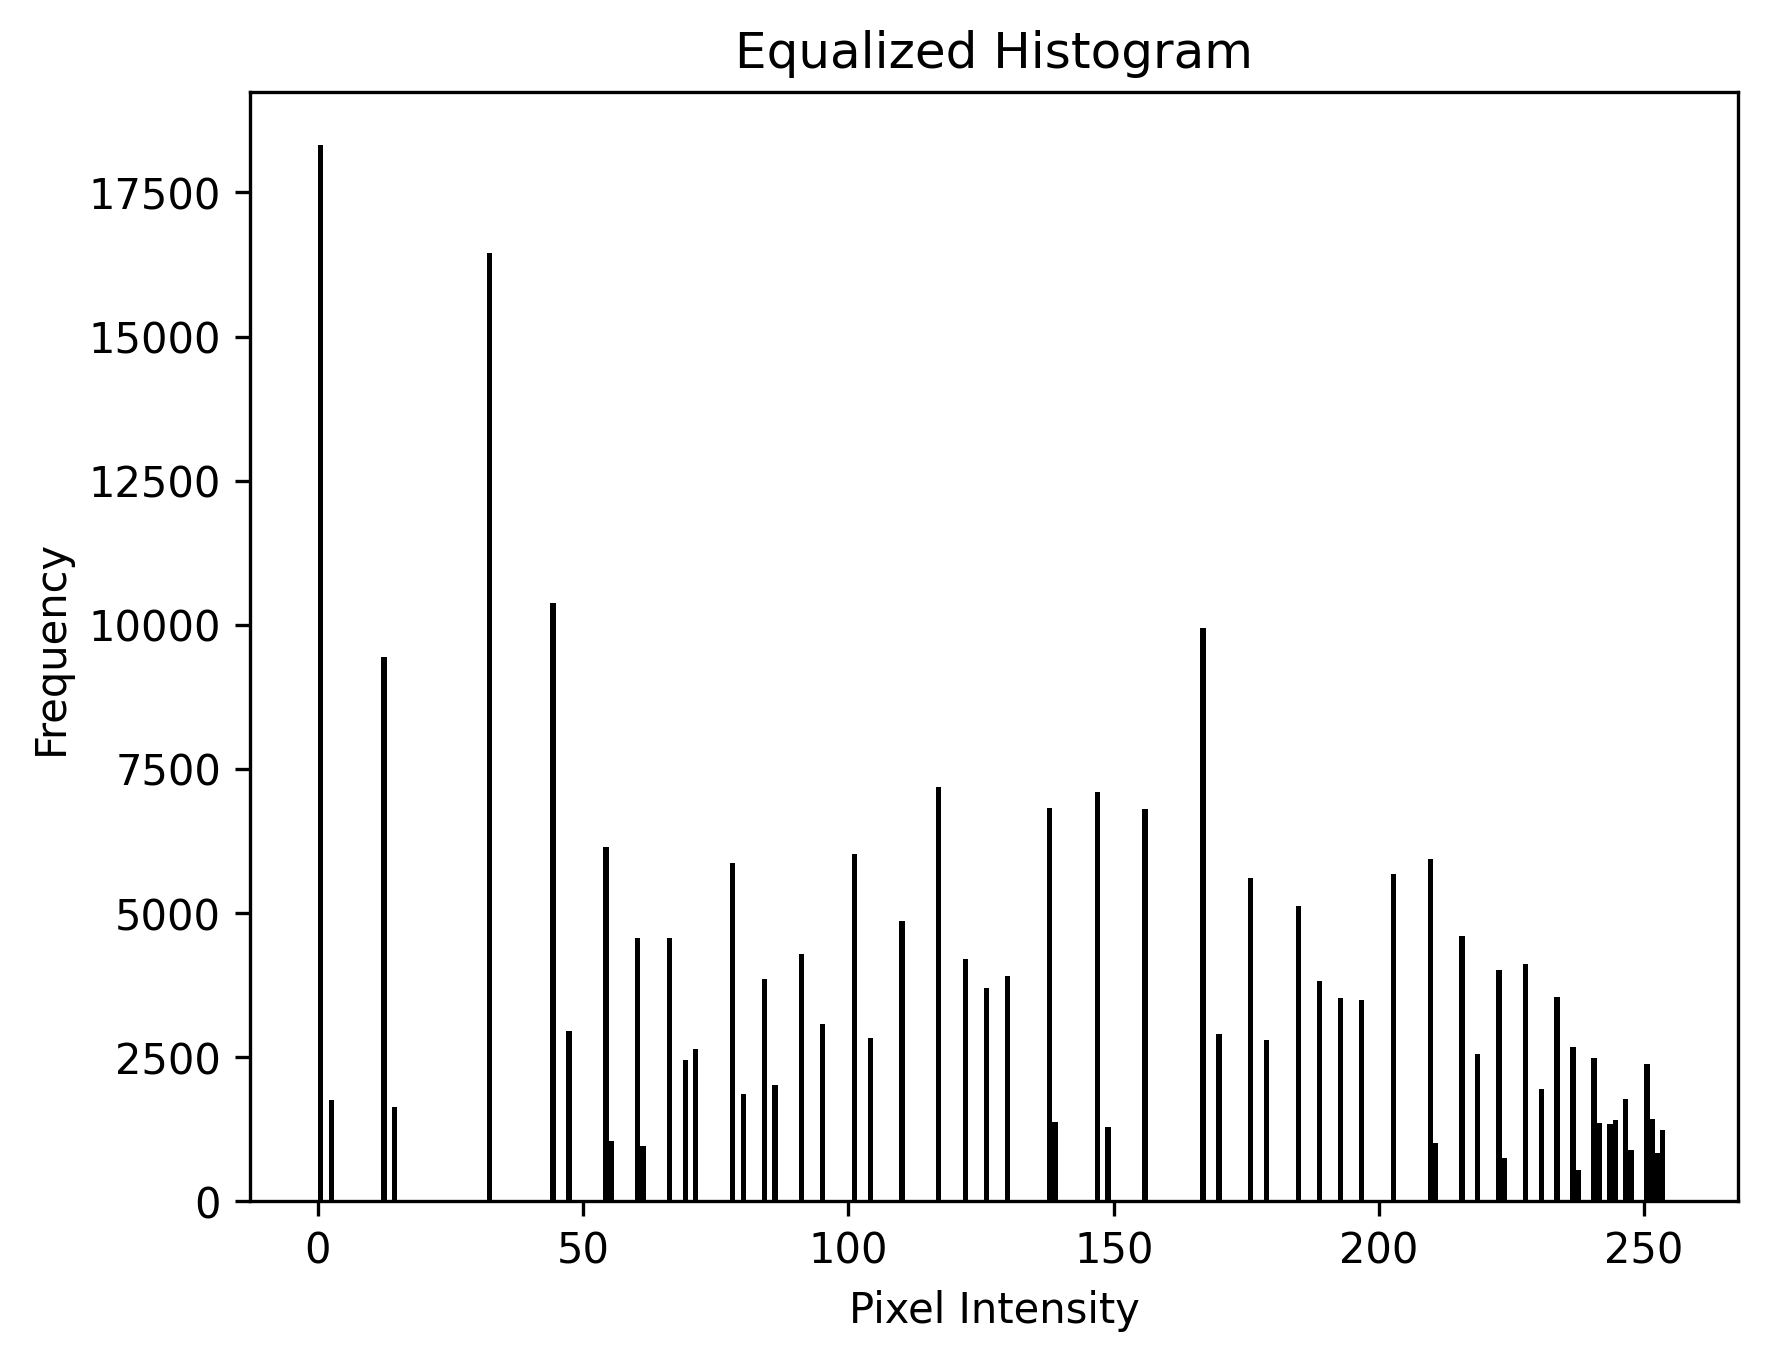
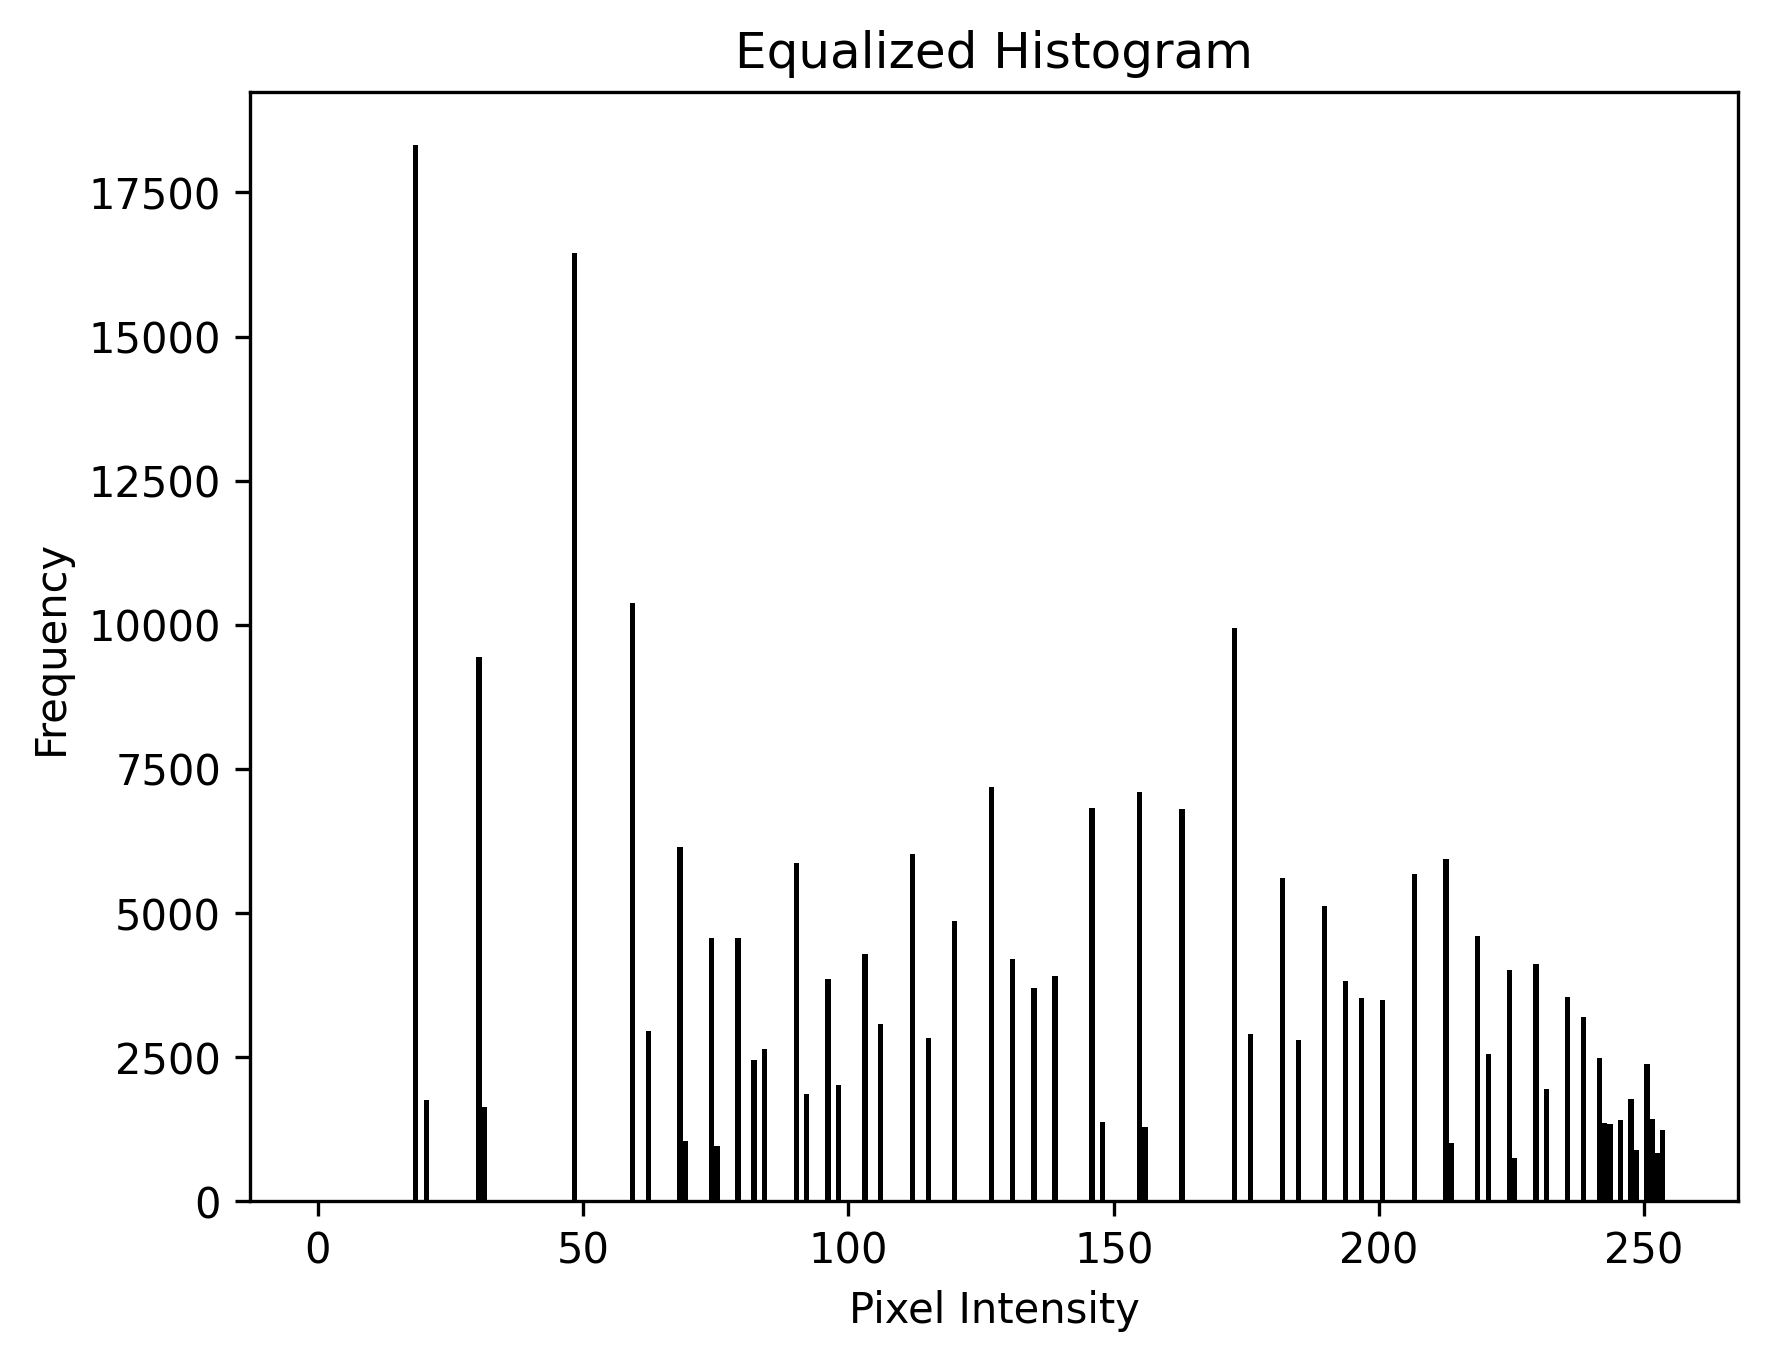
task5_modified

Changed region(s): [[0.3111, 0.432, 0.9333, 0.8949], [0.1555, 0.4629, 0.28, 0.8949]]

diff --git a/task5.py b/task5.py
@@ -5,14 +5,13 @@ import os
 
 
 def my_hist_equalization(img):
-    hist, _ = np.histogram(img.flatten(), bins=256, range=[0, 256])
+    L = 256
+    M, N = img.shape
+    hist = cv.calcHist([img], [0], None, [L], [0, L])
     cdf = hist.cumsum()
-    cdf_masked = np.ma.masked_equal(cdf, 0)
-    cdf_masked = (
-        (cdf_masked - cdf_masked.min()) * 255 / (cdf_masked.max() - cdf_masked.min())
-    )
-    cdf_final = np.ma.filled(cdf_masked, 0).astype("uint8")
-    return cdf_final[img]
+
+    t = np.array([(L - 1) / (M * N) * cdf[K] for K in range(L)]).astype("uint8")
+    return t[img]
 
 
 # Load grayscale image
